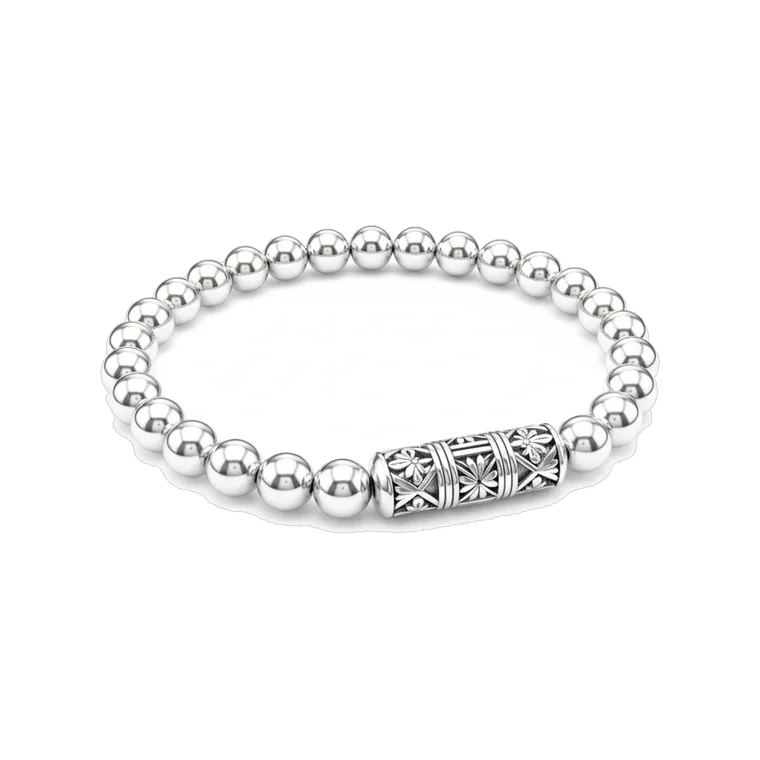
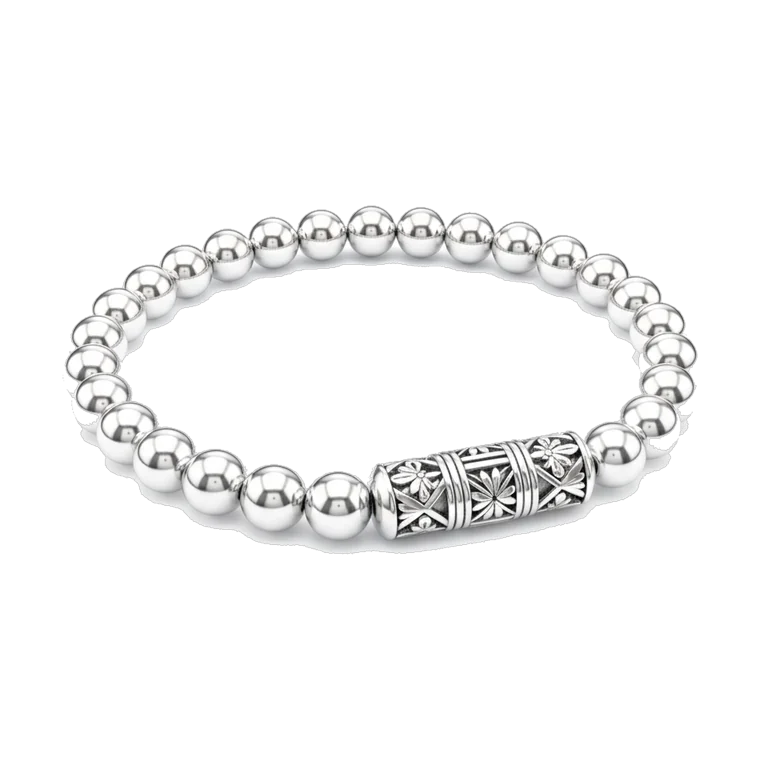
One shader for all tiles, fix white hole in silver, bigger models
- Shader: every tile now shares a single neutral gradient instead of a
  per-category accent wash, so the grid reads as one set and the 3D object is
  what carries the colour.
- Silver bracelet had opaque white inside the band. My first background removal
  only flood-filled inward from the four corners, which strips the outer
  backdrop but leaves any enclosed region untouched. Replaced with a
  connected-component pass that drops the outer background plus any enclosed
  near-white blob above 0.4% of the frame, while keeping the small specular
  highlights on the beads. Same pass cleared the reflection puddle under the
  home-decor tree at a lower threshold.
- Models re-cut at 84% of the canvas (was 74%) so they fill the tile properly,
  and the model box is now 9% top / 29% bottom for an even gap above the object
  and a fixed band for the centred label.
- Tiles and collection heroes now share one versioned asset resolver; bump
  GAAV when a model is re-cut under the same filename, otherwise the CDN keeps
  serving the old art.

tracking/ untouched.

Claude-Session: https://claude.ai/code/session_012qKNPSvbNoGtkrvu7zovDz

Changed region(s): [[0.0908, 0.2724, 0.9382, 0.7263]]

diff --git a/assets/gemsaura-custom.js b/assets/gemsaura-custom.js
@@ -7,7 +7,8 @@
     return l ? l.href.replace(/assets\/gemsaura-custom\.css.*$/, 'assets/')
              : 'https://cdn.shopify.com/s/files/1/0627/9849/5847/t/7/assets/';
   })();
-  function GAA(n){ return GAABASE+n; }
+  var GAAV='4';                      /* bump when a model is re-cut under the same filename */
+  function GAA(n){ return GAABASE+n+'?v='+GAAV; }
   var D=["https://cdn.shopify.com/s/files/1/0627/9849/5847/t/7/assets/bn-zodiac-d.jpg", "https://cdn.shopify.com/s/files/1/0627/9849/5847/t/7/assets/bn-bracelets-d.jpg", "https://cdn.shopify.com/s/files/1/0627/9849/5847/t/7/assets/bn-rudraksha-d.jpg", "https://cdn.shopify.com/s/files/1/0627/9849/5847/t/7/assets/bn-pendants-d.jpg", "https://cdn.shopify.com/s/files/1/0627/9849/5847/t/7/assets/bn-anklets-d.jpg", "https://cdn.shopify.com/s/files/1/0627/9849/5847/t/7/assets/bn-mani-d.jpg"], M=["https://cdn.shopify.com/s/files/1/0627/9849/5847/t/7/assets/bn-zodiac-m.jpg?v=1789704491", "https://cdn.shopify.com/s/files/1/0627/9849/5847/t/7/assets/bn-bracelets-m.jpg?v=1789704496", "https://cdn.shopify.com/s/files/1/0627/9849/5847/t/7/assets/bn-rudraksha-m.jpg?v=1789704501", "https://cdn.shopify.com/s/files/1/0627/9849/5847/t/7/assets/bn-pendants-m.jpg?v=1789704506", "https://cdn.shopify.com/s/files/1/0627/9849/5847/t/7/assets/bn-anklets-m.jpg?v=1789704511", "https://cdn.shopify.com/s/files/1/0627/9849/5847/t/7/assets/bn-mani-m.jpg?v=1789704515"];
   function hero(){
     var h=document.querySelector('#MainContent[data-template="index"] > .shopify-section');
@@ -55,7 +56,7 @@
       ['anklets','Anklet','Subtle & sacred','ga-anklet.webp','#d05a6e'],
       ['crystal-trees','Home Decor','Harmony at home','ga-tree3d.webp','#47804b']
     ];
-    var cards=CATS.map(function(c){ return '<a class="ga-ap" href="/collections/'+c[0]+'" style="--gac:'+c[4]+'"><span class="ga-ap-im" style="background-image:url('+GAB+c[3]+'?v=3d2)"></span><span class="ga-ap-shade"></span><span class="ga-ap-vt">'+c[1]+'</span><span class="ga-ap-lb"><span class="ga-ap-t">'+c[1]+'</span><span class="ga-ap-s">'+c[2]+'</span></span><span class="ga-ap-go">Shop \u2192</span></a>'; }).join('');
+    var cards=CATS.map(function(c){ return '<a class="ga-ap" href="/collections/'+c[0]+'" style="--gac:'+c[4]+'"><span class="ga-ap-im" style="background-image:url('+GAA(c[3])+')"></span><span class="ga-ap-shade"></span><span class="ga-ap-vt">'+c[1]+'</span><span class="ga-ap-lb"><span class="ga-ap-t">'+c[1]+'</span><span class="ga-ap-s">'+c[2]+'</span></span><span class="ga-ap-go">Shop \u2192</span></a>'; }).join('');
     var w=document.createElement('div'); w.className='ga-catsec';
     w.innerHTML='<div class=\"ga-collband-head ga-accord-head\"><span class=\"ga-collband-eyebrow\">Shop by category</span><h2 class=\"ga-collband-title\">Crafted for your energy</h2></div><div class=\"ga-accord\">'+cards+'</div>';
     sec.innerHTML=''; sec.appendChild(w); try{ gaReveal(w); }catch(e){}

diff --git a/assets/gemsaura-custom.css b/assets/gemsaura-custom.css
@@ -1884,10 +1884,10 @@ html{ -webkit-text-size-adjust:100%; text-size-adjust:100%; }
    collection heroes.
    ============================================================ */
 product-card, .ga-ap{ }
+/* One shader for every tile - the per-category accent wash is gone, so the
+   row reads as a single consistent set and the 3D object carries the colour. */
 .ga-ap{
-  background:linear-gradient(158deg,#ffffff 0%,
-    color-mix(in srgb, var(--gac,#7a5c9e) 9%, #ffffff) 52%,
-    color-mix(in srgb, var(--gac,#7a5c9e) 20%, #ffffff) 100%) !important;
+  background:linear-gradient(158deg,#ffffff 0%,#f7f5f1 54%,#eeeae3 100%) !important;
 }
 /* Every model now ships on an identical 760x760 canvas at the same scale, so a
    padded `contain` box renders them all at matching visual weight, and nothing
@@ -1932,3 +1932,9 @@ product-card, .ga-ap{ }
   .ga-ap-lb{ text-align:center !important; padding:0 8px 10px !important; }
   .ga-ap-s{ display:none !important; }
 }
+
+
+/* Balanced model box: equal breathing room above the object and a fixed band
+   underneath for the centred label, so every tile aligns the same way. */
+.ga-ap-im{ inset:9% 11% 29% 11% !important; }
+@media(max-width:820px){ .ga-ap-im{ inset:7% 10% 31% 10% !important; } }
